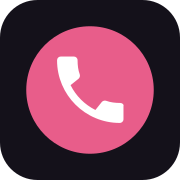
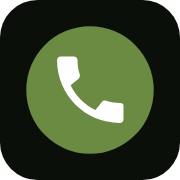
Pages in the deep-green kuro palette by default; the old one stays as look.palette = rose
The setup wizard, dashboard (its canvases read the palette from the CSS), morning page and the call line's
pages (call, pairing, inbox, icons) use the greens of the landing page. Status colours have their own tokens
(ok, warn, bad), so warnings and errors are never the accent. Form controls follow the palette; the call
page's inbox link no longer stretches; every feature on the dashboard ring gets a short label and a colour.

diff --git a/src/kurooto/web/static/style.css b/src/kurooto/web/static/style.css
@@ -1,23 +1,43 @@
-:root {
-  --bg: #22181a; --fg: #efd1d0; --dim: #a9908f; --line: #4a3a3d; --panel: #2b1f22;
-  --accent: #ff4e79; --lav: #b3a3d5; --pink: #ec8fa8; --peach: #ffba92; --ok: #9fd8a8;
+/* Palettes: "kuro" (deep greens, the default) and "rose" (the original); <html data-palette> picks one (Settings →
+   look.palette). accent fills buttons, accent-text is the accent as text; lav, pink, peach, sand and rose are the
+   secondary colours (the dashboard's cells and graph); ok, warn and bad are for status, never the accent. The dashboard
+   (body.home) is always dark; the other pages follow the system's light mode. */
+:root, body.home {
+  color-scheme: dark;
+  --bg: #0b0f0a; --fg: #dad3c8; --dim: #95a682; --line: #26311f; --panel: #151b12;
+  --accent: #6b8a42; --accent-text: #a6c07a; --accent-contrast: #0a0e08; --link: #a6c07a; --hover: #7e9a52;
+  --lav: #8dbdb3; --pink: #d6967a; --peach: #ddb866; --sand: #e4d8b4; --rose: #b9a6cc;
+  --ok: #8ccb98; --warn: #e2b550; --bad: #e8735a;
   --mono: "JetBrains Mono", "Cascadia Mono", "SF Mono", Consolas, monospace;
   --sans: system-ui, -apple-system, "Segoe UI", Roboto, sans-serif;
 }
+:root[data-palette="rose"], [data-palette="rose"] body.home {
+  --bg: #22181a; --fg: #efd1d0; --dim: #a9908f; --line: #4a3a3d; --panel: #2b1f22;
+  --accent: #ff4e79; --accent-text: #ff4e79; --accent-contrast: #1d1416; --link: #ec8fa8; --hover: #ec8fa8;
+  --lav: #b3a3d5; --pink: #ec8fa8; --peach: #ffba92; --sand: #f9d7ac; --rose: #ffbcb2;
+  --ok: #9fd8a8; --warn: #ffba92; --bad: #ff4e79;
+}
 @media (prefers-color-scheme: light) {
-  :root { --bg: #fbf3f2; --fg: #2a1c1f; --dim: #7b6466; --line: #e2cfcf; --panel: #fff; }
+  :root, :root[data-palette="kuro"] {
+    color-scheme: light;
+    --bg: #f4f2ec; --fg: #2f3a26; --dim: #52624a; --line: #d4ccbe; --panel: #fff;
+    --accent: #3f5626; --accent-text: #3a4f22; --accent-contrast: #f6f3ec; --link: #3a4f22; --hover: #4c672e;
+    --lav: #3e6e66; --pink: #9a4e33; --peach: #8a6414; --sand: #6e5a2e; --rose: #6a5384;
+    --ok: #2e6b3f; --warn: #8a5a00; --bad: #b23a26;
+  }
+  :root[data-palette="rose"] { color-scheme: light; --bg: #fbf3f2; --fg: #2a1c1f; --dim: #7b6466; --line: #e2cfcf; --panel: #fff; }
 }
 * { box-sizing: border-box; }
-html, body { margin: 0; background: var(--bg); color: var(--fg); font: 16px/1.55 var(--sans); }
-a { color: var(--pink); }
+html, body { margin: 0; background: var(--bg); color: var(--fg); font: 16px/1.55 var(--sans); accent-color: var(--accent); }
+a { color: var(--link); }
 code { font-family: var(--mono); font-size: .92em; background: var(--panel); padding: 1px 5px; border-radius: 2px; }
 .wizard { max-width: 760px; margin: 0 auto; padding: 28px 18px 60px; }
 header { display: flex; flex-wrap: wrap; align-items: center; justify-content: space-between; gap: 12px; margin-bottom: 26px; }
-.brand { font: 700 15px var(--mono); letter-spacing: .14em; color: var(--accent); }
+.brand { font: 700 15px var(--mono); letter-spacing: .14em; color: var(--accent-text); }
 .ver { color: var(--dim); font-weight: 400; letter-spacing: 0; margin-left: 6px; }
 .steps { display: flex; gap: 6px; list-style: none; margin: 0; padding: 0; flex-wrap: wrap; }
 .steps li { font: 12px var(--mono); color: var(--dim); border: 1px solid var(--line); padding: 2px 8px; border-radius: 2px; }
-.steps li.on { color: var(--bg); background: var(--accent); border-color: var(--accent); }
+.steps li.on { color: var(--accent-contrast); background: var(--accent); border-color: var(--accent); }
 .steps li.done { color: var(--fg); border-color: var(--lav); }
 section { display: none; }
 section.on { display: block; }
@@ -30,8 +50,8 @@ input:not([type=checkbox]), textarea { display: block; width: 100%; margin-top: 
 input:focus, textarea:focus { outline: 1px solid var(--accent); border-color: var(--accent); }
 button { font: 14px var(--sans); color: var(--fg); background: transparent; border: 1px solid var(--line); padding: 9px 16px;
   border-radius: 2px; cursor: pointer; }
-button:hover { border-color: var(--pink); }
-button.primary { background: var(--accent); color: #1d1416; border-color: var(--accent); font-weight: 600; }
+button:hover { border-color: var(--hover); }
+button.primary { background: var(--accent); color: var(--accent-contrast); border-color: var(--accent); font-weight: 600; }
 button:disabled { opacity: .5; cursor: default; }
 .nav { display: flex; justify-content: space-between; margin-top: 30px; }
 .row { display: flex; gap: 8px; align-items: stretch; }
@@ -44,7 +64,7 @@ button:disabled { opacity: .5; cursor: default; }
 .note { color: var(--dim); font-size: 14px; }
 .cards { display: grid; gap: 10px; grid-template-columns: repeat(auto-fill, minmax(220px, 1fr)); }
 .card { border: 1px solid var(--line); border-radius: 2px; padding: 14px; background: var(--panel); cursor: pointer; text-align: left; }
-.card:hover { border-color: var(--pink); }
+.card:hover { border-color: var(--hover); }
 .card.on { border-color: var(--accent); box-shadow: inset 0 0 0 1px var(--accent); }
 .card h3 { margin: 0 0 6px; font-size: 15px; }
 .card p { margin: 0; color: var(--dim); font-size: 13px; }
@@ -54,17 +74,17 @@ button:disabled { opacity: .5; cursor: default; }
 .features .card { cursor: default; }
 .features .card label { margin: 0; color: var(--fg); display: flex; gap: 8px; align-items: center; cursor: pointer; }
 .presets { display: flex; gap: 8px; margin-bottom: 14px; flex-wrap: wrap; }
-.preset.on { border-color: var(--accent); color: var(--accent); }
+.preset.on { border-color: var(--accent); color: var(--accent-text); }
 .panel { margin-top: 18px; }
 .panel:empty { display: none; }
 .box { border: 1px solid var(--line); border-radius: 2px; padding: 14px; background: var(--panel); }
 .box p { margin: 6px 0; }
 .log { font: 12px/1.5 var(--mono); color: var(--dim); max-height: 180px; overflow: auto; white-space: pre-wrap; margin-top: 8px; }
 .ok { color: var(--ok); }
-.bad { color: var(--accent); }
+.bad { color: var(--bad); }
 .howto li { margin: 8px 0; }
 .check { display: flex; gap: 8px; align-items: center; color: var(--fg); }
-.big { display: inline-block; margin: 10px 0; padding: 12px 18px; background: var(--accent); color: #1d1416 !important;
+.big { display: inline-block; margin: 10px 0; padding: 12px 18px; background: var(--accent); color: var(--accent-contrast) !important;
   text-decoration: none; font-weight: 600; border-radius: 2px; }
 @media (max-width: 520px) { h1 { font-size: 22px; } .row { flex-direction: column; } }
 .qr { background: #fff; padding: 10px; width: fit-content; border-radius: 2px; margin: 8px 0; }

diff --git a/src/kurooto/web/static/home.css b/src/kurooto/web/static/home.css
@@ -1,17 +1,17 @@
-/* the dashboard is always dark: the canvases are drawn in the dark palette */
-body.home { --bg: #22181a; --fg: #efd1d0; --dim: #a9908f; --line: #4a3a3d; --panel: #2b1f22; color-scheme: dark;
+/* the dashboard is always dark (its colours are in style.css): the canvases are drawn in the dark palette */
+body.home { color-scheme: dark;
   background: var(--bg); color: var(--fg); overflow: hidden; height: 100vh; display: flex; flex-direction: column; }
 .bar { display: flex; align-items: center; gap: 16px; padding: 8px 14px; border-bottom: 1px solid var(--line); margin: 0; }
 .bar .meta { color: var(--dim); font: 12px var(--mono); flex: 1; }
 .bar .right { display: flex; gap: 12px; align-items: center; font-size: 13px; }
-.badge { font: 12px var(--mono); padding: 2px 8px; border: 1px solid var(--peach); color: var(--peach); border-radius: 2px; }
+.badge { font: 12px var(--mono); padding: 2px 8px; border: 1px solid var(--warn); color: var(--warn); border-radius: 2px; }
 .hidden { display: none !important; }
 .grid { flex: 1; display: grid; grid-template-columns: minmax(230px, 0.75fr) 1.6fr 1.3fr; grid-template-rows: 1fr 260px; gap: 10px;
   padding: 10px; min-height: 0; }
 .pane { position: relative; border: 1px solid var(--line); border-radius: 2px; background: var(--panel); min-height: 0;
   display: flex; flex-direction: column; overflow: hidden; }
 .pane.wide { grid-column: 1 / -1; }
-.pane h3 { margin: 0; padding: 6px 10px; font: 600 12px var(--mono); letter-spacing: .12em; color: var(--accent);
+.pane h3 { margin: 0; padding: 6px 10px; font: 600 12px var(--mono); letter-spacing: .12em; color: var(--accent-text);
   border-bottom: 1px solid var(--line); display: flex; justify-content: space-between; }
 .pane h3 .meta { color: var(--dim); font-weight: 400; letter-spacing: 0; text-transform: none; }
 .pane canvas { flex: 1; width: 100%; min-height: 0; display: block; }
@@ -24,13 +24,13 @@ body.home { --bg: #22181a; --fg: #efd1d0; --dim: #a9908f; --line: #4a3a3d; --pan
 .cores i { flex: 1; background: var(--peach); min-height: 1px; opacity: .8; }
 .card { position: absolute; right: 10px; bottom: 10px; max-width: 340px; background: var(--bg); border: 1px solid var(--line);
   padding: 8px 10px; font: 12px/1.5 var(--mono); }
-.card .h { color: var(--accent); font-weight: 700; }
+.card .h { color: var(--accent-text); font-weight: 700; }
 .card .d { color: var(--dim); }
 .card pre { white-space: pre-wrap; margin: 6px 0 0; max-height: 200px; overflow: auto; }
 #mind-search { position: absolute; top: 34px; left: 10px; width: 240px; }
 .tabs { display: flex; gap: 2px; border-bottom: 1px solid var(--line); padding: 0 6px; }
 .tabs button { border: 0; border-bottom: 2px solid transparent; border-radius: 0; padding: 7px 12px; font: 12px var(--mono); color: var(--dim); }
-.tabs button.on { color: var(--fg); border-bottom-color: var(--accent); }
+.tabs button.on { color: var(--fg); border-bottom-color: var(--accent-text); }
 .tab-body { flex: 1; overflow: auto; padding: 8px 12px; font: 12.5px/1.55 var(--mono); }
 .tab-body table { border-collapse: collapse; width: 100%; }
 .tab-body td, .tab-body th { text-align: left; padding: 3px 10px 3px 0; border-bottom: 1px solid var(--line); vertical-align: top; }
@@ -45,7 +45,7 @@ body.home { --bg: #22181a; --fg: #efd1d0; --dim: #a9908f; --line: #4a3a3d; --pan
 .form legend { color: var(--lav); font-size: 12px; }
 .form label { margin: 6px 0; font: 12px var(--mono); display: flex; justify-content: space-between; gap: 8px; align-items: center; }
 .form input:not([type=checkbox]) { width: 55%; margin: 0; padding: 4px 6px; font: 12px var(--mono); }
-.ok2 { color: var(--ok); } .bad2 { color: var(--accent); }
+.ok2 { color: var(--ok); } .bad2 { color: var(--bad); }
 @media (max-width: 900px) { body.home { overflow: auto; height: auto; } .grid { grid-template-columns: 1fr; grid-template-rows: 300px 420px 420px 360px; } }
 @media (prefers-reduced-motion: reduce) { .pane canvas { animation: none; } }
 .sf { display: flex; flex-direction: column; gap: 6px; margin-top: 8px; }
@@ -53,7 +53,7 @@ body.home { --bg: #22181a; --fg: #efd1d0; --dim: #a9908f; --line: #4a3a3d; --pan
 .sf input, .sf textarea { background: var(--bg); color: var(--fg); border: 1px solid var(--line); padding: 6px; font: 12px var(--mono); }
 .pw { display: flex; gap: 6px; margin-top: 6px; }
 .pw button { padding: 3px 9px; font: 11px var(--mono); }
-.warn { color: var(--peach); }
+.warn { color: var(--warn); }
 .rs { display: flex; flex-direction: column; gap: 14px; max-width: 980px; }
 .rs section { display: flex; flex-direction: column; gap: 6px; }
 .rs textarea, .rs input:not([type=checkbox]), .rs select { background: var(--bg); color: var(--fg); border: 1px solid var(--line); padding: 5px 7px; font: 12px var(--mono); }
@@ -65,7 +65,7 @@ body.home { --bg: #22181a; --fg: #efd1d0; --dim: #a9908f; --line: #4a3a3d; --pan
 .rs-list summary { cursor: pointer; font: 12px var(--mono); color: var(--fg); padding: 2px 0; }
 .rs-picks, .rs-kinds { display: flex; flex-wrap: wrap; gap: 5px; }
 .rs-picks button, .rs-kinds button, .rs-feeds button { padding: 3px 9px; font: 11px var(--mono); }
-.rs-kinds button.on { border-color: var(--pink); color: var(--pink); }
+.rs-kinds button.on { border-color: var(--hover); color: var(--hover); }
 .rs-feeds { margin: 0; padding-left: 18px; font-size: 12px; }
 .rs-row { display: flex; flex-wrap: wrap; align-items: center; gap: 6px; font-size: 12px; }
 .rs-row input[type=number] { width: 4em; }

diff --git a/src/kurooto/web/static/home.js b/src/kurooto/web/static/home.js
@@ -7,7 +7,10 @@ const $ = (s) => document.querySelector(s);
 const clamp = (v, a, b) => Math.max(a, Math.min(b, v));
 const TAU = Math.PI * 2;
 const FONT = '"JetBrains Mono", "Cascadia Mono", "SF Mono", Consolas, monospace';
-const PAL = { bg: "#22181a", fg: "#efd1d0", accent: "#ff4e79", lav: "#b3a3d5", pink: "#ec8fa8", peach: "#ffba92", sand: "#f9d7ac", rose: "#ffbcb2" };
+// the canvases' colours are the page's palette (style.css: "kuro" by default, "rose" with look.palette = rose)
+const css = (name, fallback) => { const v = getComputedStyle(document.body).getPropertyValue(name).trim(); return /^#[0-9a-f]{6}$/i.test(v) ? v : fallback; };
+const PAL = { bg: css("--bg", "#0b0f0a"), fg: css("--fg", "#dad3c8"), accent: css("--accent-text", "#a6c07a"), lav: css("--lav", "#8dbdb3"),
+  pink: css("--pink", "#d6967a"), peach: css("--peach", "#ddb866"), sand: css("--sand", "#e4d8b4"), rose: css("--rose", "#b9a6cc") };
 const hexRgb = (h) => { const n = parseInt(h.slice(1), 16); return [(n >> 16) & 255, (n >> 8) & 255, n & 255]; };
 const mix = (a, b, t) => "#" + hexRgb(a).map((v, i) => Math.round(v + (hexRgb(b)[i] - v) * t).toString(16).padStart(2, "0")).join("");
 const rgba = (h, a) => { const [r, g, b] = hexRgb(h); return `rgba(${r},${g},${b},${a})`; };
@@ -34,9 +37,15 @@ function fitCanvas(cv) {
 
 // ------------------------------------------------------------------------------------------------ SYSTEMS
 const COLORS = { telegram: "lav", chat: "peach", reminders: "pink", checkins: "rose", deadlines: "accent", gbrain: "lav",
-  local_models: "sand", subjects: "sand", quiz: "pink", weekly: "rose", files: "peach" };
+  local_models: "sand", subjects: "sand", quiz: "pink", weekly: "rose", files: "peach", skills: "lav", library: "sand",
+  remember: "rose", retro: "pink", capture: "peach", calls: "accent", alarm: "peach", voice_notes: "lav", calendar: "rose",
+  notes_sync: "lav", backups: "sand", google: "peach", study: "accent", research: "lav", terminals: "sand" };
 const SHORT = { telegram: "telegram", chat: "chat", reminders: "reminders", checkins: "check-ins", deadlines: "deadlines",
-  gbrain: "notes brain", local_models: "local models", subjects: "subjects", quiz: "quiz", weekly: "weekly", files: "files" };
+  gbrain: "notes brain", local_models: "local models", subjects: "subjects", quiz: "quiz", weekly: "weekly", files: "files",
+  library: "quick notes", retro: "look back", capture: "after class", voice_notes: "voice notes", notes_sync: "notes sync",
+  classroom_notes: "classroom", mail_digest: "mail", reply_drafts: "drafts", agent_plan: "agent plan", awake: "awake",
+  handwritten: "handwritten", study: "study", research: "research", calendar: "calendar", alarm: "alarm", calls: "calls",
+  skills: "skills", remember: "remember", terminals: "terminals", backups: "backups", google: "google" };
 const OUTBOUND = /fired|asked|told|notified|done|reply/;
 
 class Body {

diff --git a/src/kurooto/data/worker/public/call.css b/src/kurooto/data/worker/public/call.css
@@ -1,22 +1,25 @@
-:root { --bg: #14111a; --fg: #ece8f2; --dim: #9a93a8; --accent: #e85d8a; --ok: #4fbf8a; --card: #1f1a28; --line: #2c2538; }
+/* the "kuro" palette of the local pages (deep greens): go and stop fill the call buttons, ok and bad colour text */
+:root { --bg: #0b0f0a; --fg: #f2eee8; --dim: #95a682; --ok: #8ccb98; --bad: #e8735a; --go: #4f6e2c;
+  --stop: #b8432e; --card: #151b12; --me: #1f2a19; --line: #26311f; }
 * { box-sizing: border-box; }
-html, body { margin: 0; height: 100%; background: var(--bg); color: var(--fg); font: 16px/1.45 system-ui, -apple-system, sans-serif; }
+html, body { margin: 0; height: 100%; background: var(--bg); color: var(--fg); font: 16px/1.45 system-ui, -apple-system, sans-serif; accent-color: var(--ok); }
 main { max-width: 560px; margin: 0 auto; min-height: 100%; display: flex; flex-direction: column; padding: max(20px, env(safe-area-inset-top)) 16px max(28px, env(safe-area-inset-bottom)); gap: 16px; }
 h1 { font-size: 18px; font-weight: 600; margin: 0; }
 h2 { font-size: 16px; margin: 8px 0 0; }
 p { margin: 0; color: var(--dim); }
 a { color: var(--fg); }
 #reason { color: var(--dim); font-size: 15px; min-height: 1.4em; }
+#inbox { flex: 0 0 auto; }  /* a link, not a spacer: #log takes the room */
 #status { font-size: 14px; color: var(--dim); }
 #status.live, .ok { color: var(--ok); }
-#status.err, .err { color: var(--accent); }
+#status.err, .err { color: var(--bad); }
 #log { flex: 1; overflow-y: auto; display: flex; flex-direction: column; gap: 8px; min-height: 120px; }
 .m { padding: 8px 12px; border-radius: 12px; max-width: 88%; background: var(--card); white-space: pre-wrap; }
-.me { align-self: flex-end; background: #2a2236; }
+.me { align-self: flex-end; background: var(--me); }
 .sys { align-self: center; background: none; color: var(--dim); font-size: 13px; }
 .row { display: flex; gap: 12px; }
-button, .button { flex: 1; border: 0; border-radius: 999px; padding: 16px; font-size: 17px; font-weight: 600; color: #fff; background: var(--ok); text-align: center; text-decoration: none; display: block; }
-button.end { background: var(--accent); }
+button, .button { flex: 1; border: 0; border-radius: 999px; padding: 16px; font-size: 17px; font-weight: 600; color: #fff; background: var(--go); text-align: center; text-decoration: none; display: block; }
+button.end { background: var(--stop); }
 button.quiet, .button.quiet { background: var(--line); color: var(--fg); }
 button:disabled { opacity: .5; }
 .gate { display: flex; flex-direction: column; gap: 6px; font-size: 13px; color: var(--dim); }

diff --git a/src/kurooto/data/worker/src/worker.js b/src/kurooto/data/worker/src/worker.js
@@ -598,7 +598,7 @@ export class Line {
 function manifest(url, env) {
   const code = (url.searchParams.get('c') || '').replace(/[^A-Za-z0-9]/g, '').slice(0, 16);
   return new Response(JSON.stringify({
-    name: 'Kurooto', short_name: 'Kurooto', display: 'standalone', background_color: '#14111a', theme_color: '#14111a',
+    name: 'Kurooto', short_name: 'Kurooto', display: 'standalone', background_color: '#0b0f0a', theme_color: '#0b0f0a',
     start_url: code ? `/pair?c=${code}` : '/', scope: '/',
     icons: [{ src: '/icon-192.png', sizes: '192x192', type: 'image/png' }, { src: '/icon-512.png', sizes: '512x512', type: 'image/png' }],
   }), { headers: { 'content-type': 'application/manifest+json', 'cache-control': 'no-store' } });

diff --git a/src/kurooto/data/worker/public/pair.html b/src/kurooto/data/worker/public/pair.html
@@ -4,7 +4,7 @@
 <meta charset="utf-8">
 <meta name="viewport" content="width=device-width, initial-scale=1, viewport-fit=cover">
 <meta name="robots" content="noindex">
-<meta name="theme-color" content="#14111a">
+<meta name="theme-color" content="#0b0f0a">
 <meta name="apple-mobile-web-app-capable" content="yes">
 <meta name="apple-mobile-web-app-title" content="Kurooto">
 <link rel="apple-touch-icon" href="/apple-touch-icon.png">

diff --git a/src/kurooto/data/worker/public/inbox.html b/src/kurooto/data/worker/public/inbox.html
@@ -4,7 +4,7 @@
 <meta charset="utf-8">
 <meta name="viewport" content="width=device-width, initial-scale=1, viewport-fit=cover">
 <meta name="robots" content="noindex">
-<meta name="theme-color" content="#14111a">
+<meta name="theme-color" content="#0b0f0a">
 <meta name="apple-mobile-web-app-capable" content="yes">
 <meta name="apple-mobile-web-app-title" content="Kurooto">
 <link rel="manifest" href="/manifest.webmanifest">

diff --git a/src/kurooto/data/worker/public/index.html b/src/kurooto/data/worker/public/index.html
@@ -4,7 +4,7 @@
 <meta charset="utf-8">
 <meta name="viewport" content="width=device-width, initial-scale=1, viewport-fit=cover">
 <meta name="robots" content="noindex">
-<meta name="theme-color" content="#14111a">
+<meta name="theme-color" content="#0b0f0a">
 <meta name="apple-mobile-web-app-capable" content="yes">
 <meta name="apple-mobile-web-app-title" content="Kurooto">
 <link rel="manifest" href="/manifest.webmanifest">

diff --git a/src/kurooto/web/static/home.html b/src/kurooto/web/static/home.html
@@ -1,5 +1,5 @@
 <!doctype html>
-<html lang="en">
+<html lang="en" data-palette="{{PALETTE}}">
 <head>
 <meta charset="utf-8">
 <meta name="viewport" content="width=device-width, initial-scale=1">

diff --git a/src/kurooto/web/static/morning.html b/src/kurooto/web/static/morning.html
@@ -1,5 +1,5 @@
 <!doctype html>
-<html lang="en">
+<html lang="en" data-palette="{{PALETTE}}">
 <head>
 <meta charset="utf-8">
 <meta name="viewport" content="width=device-width, initial-scale=1">

diff --git a/src/kurooto/web/static/setup.html b/src/kurooto/web/static/setup.html
@@ -1,5 +1,5 @@
 <!doctype html>
-<html lang="en">
+<html lang="en" data-palette="{{PALETTE}}">
 <head>
 <meta charset="utf-8">
 <meta name="viewport" content="width=device-width, initial-scale=1">

diff --git a/src/kurooto/web/server.py b/src/kurooto/web/server.py
@@ -32,6 +32,8 @@ if TYPE_CHECKING:
     from kurooto.app import App
 
 register_defaults("web", {"port": 8770})
+register_defaults("look", {"palette": "kuro"})  # the pages' colours: kuro (deep greens) or rose (the original)
+PALETTES = ("kuro", "rose")
 CSP = (
     "default-src 'self'; img-src 'self' data:; style-src 'self' 'unsafe-inline'; script-src 'self'; "
     "connect-src 'self'; frame-ancestors 'none'; base-uri 'none'; form-action 'none'"
@@ -131,14 +133,12 @@ class Server:
                 if not path.startswith("/static/") and not self._same_user():  # the page (it holds the key), the API
                     return self._send(403, {"error": "not your account"})
                 if path == "/morning":  # the morning page (rhythm): today's plan, opened by the alarm
-                    html = (static("morning.html") or b"").decode()
-                    html = html.replace("{{TOKEN}}", server.token).replace("{{VERSION}}", __version__)
+                    html = server.fill((static("morning.html") or b"").decode())
                     return self._send(200, html.encode(), TYPES[".html"])
                 if path in ("/", "/setup"):
                     done = server.app.settings.get("setup.done")
                     page = "setup.html" if path == "/setup" or not done else "home.html"
-                    html = (static(page) or static("setup.html")).decode()
-                    html = html.replace("{{TOKEN}}", server.token).replace("{{VERSION}}", __version__)
+                    html = server.fill((static(page) or static("setup.html")).decode())
                     return self._send(200, html.encode(), TYPES[".html"])
                 if path.startswith("/static/"):
                     name = path[len("/static/") :]
@@ -157,7 +157,7 @@ class Server:
                         ok, msg = g.finish_signin(q.get("code", ""), q.get("state", ""))
                     page = (
                         '<!doctype html><meta charset=utf-8><title>Kurooto</title><body style="font:16px system-ui;'
-                        'background:#14111a;color:#ece8f2;padding:40px">'
+                        'background:#0b0f0a;color:#dad3c8;padding:40px">'
                         f"<h2>{'✓' if ok else '✗'} {html_escape(msg)}</h2>"
                     )
                     return self._send(200 if ok else 400, page.encode(), TYPES[".html"])
@@ -227,6 +227,12 @@ class Server:
 
         self.tools_token = pysecrets.token_urlsafe(24)
         jsave(access_file(app.paths), {"url": self.url, "token": self.tools_token, "started": time.time()})
+
+    def fill(self, html: str) -> str:
+        """A page with its key, the version and the palette (look.palette) written in."""
+        palette = self.app.settings.get("look.palette")
+        palette = palette if palette in PALETTES else "kuro"
+        return html.replace("{{TOKEN}}", self.token).replace("{{VERSION}}", __version__).replace("{{PALETTE}}", palette)
 
     def start(self) -> Server:
         threading.Thread(target=self.httpd.serve_forever, name="web", daemon=True).start()
